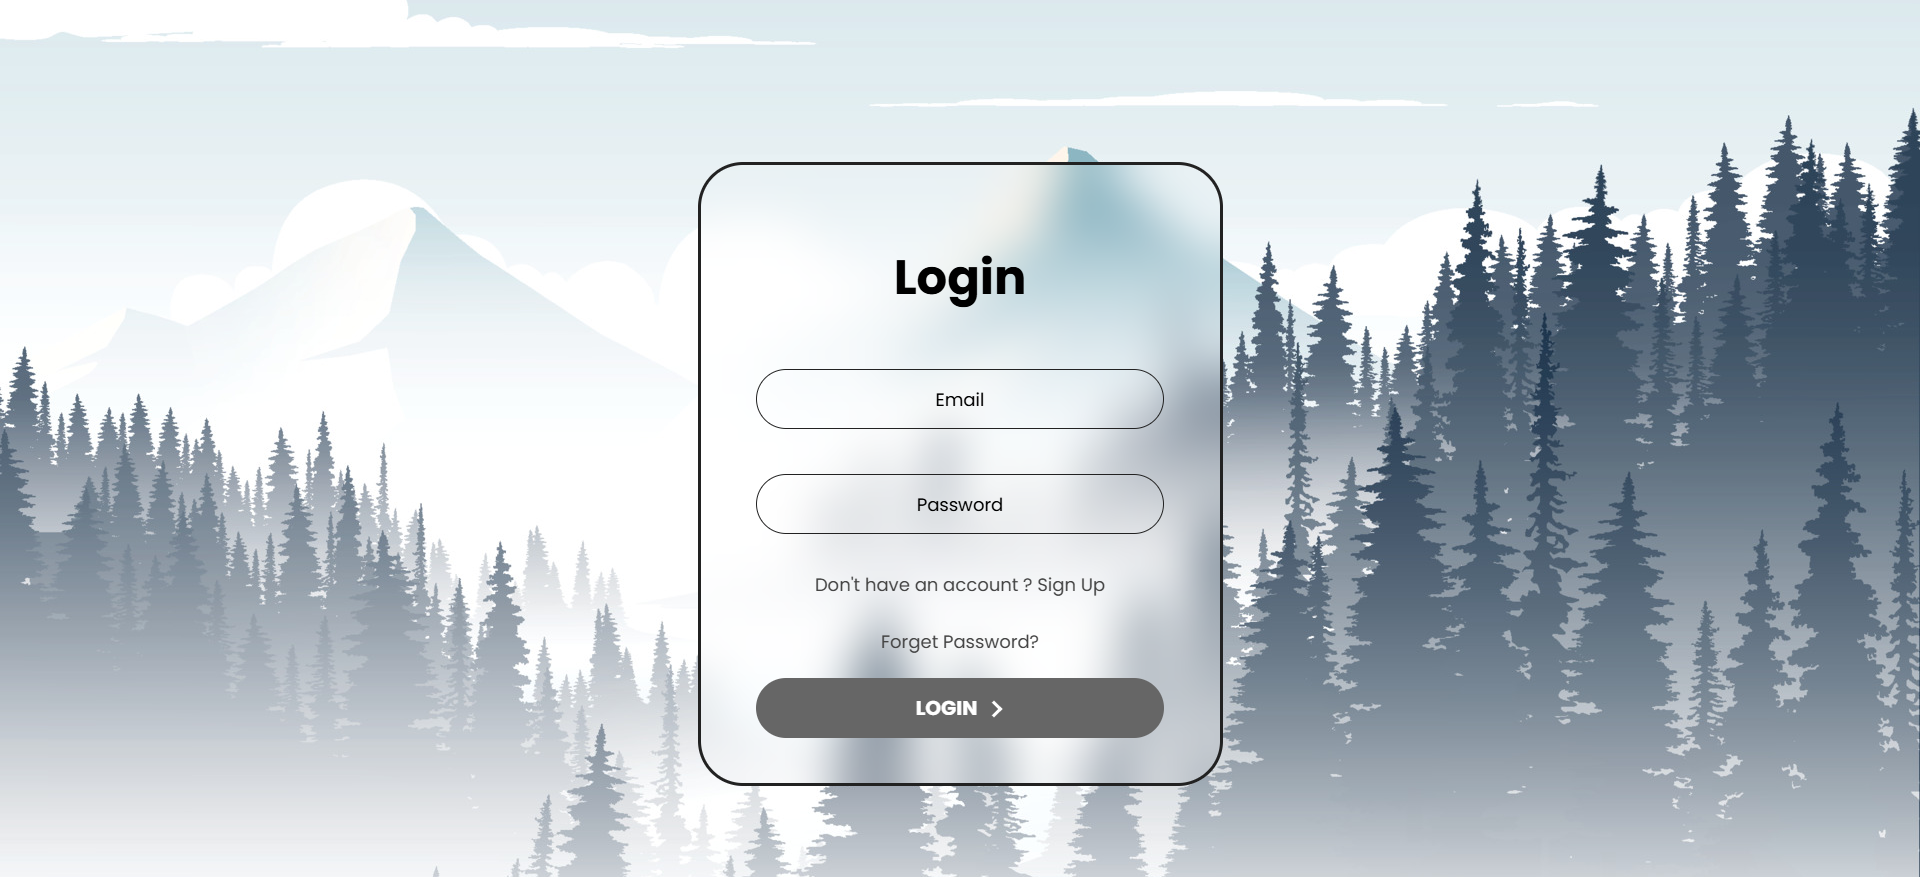
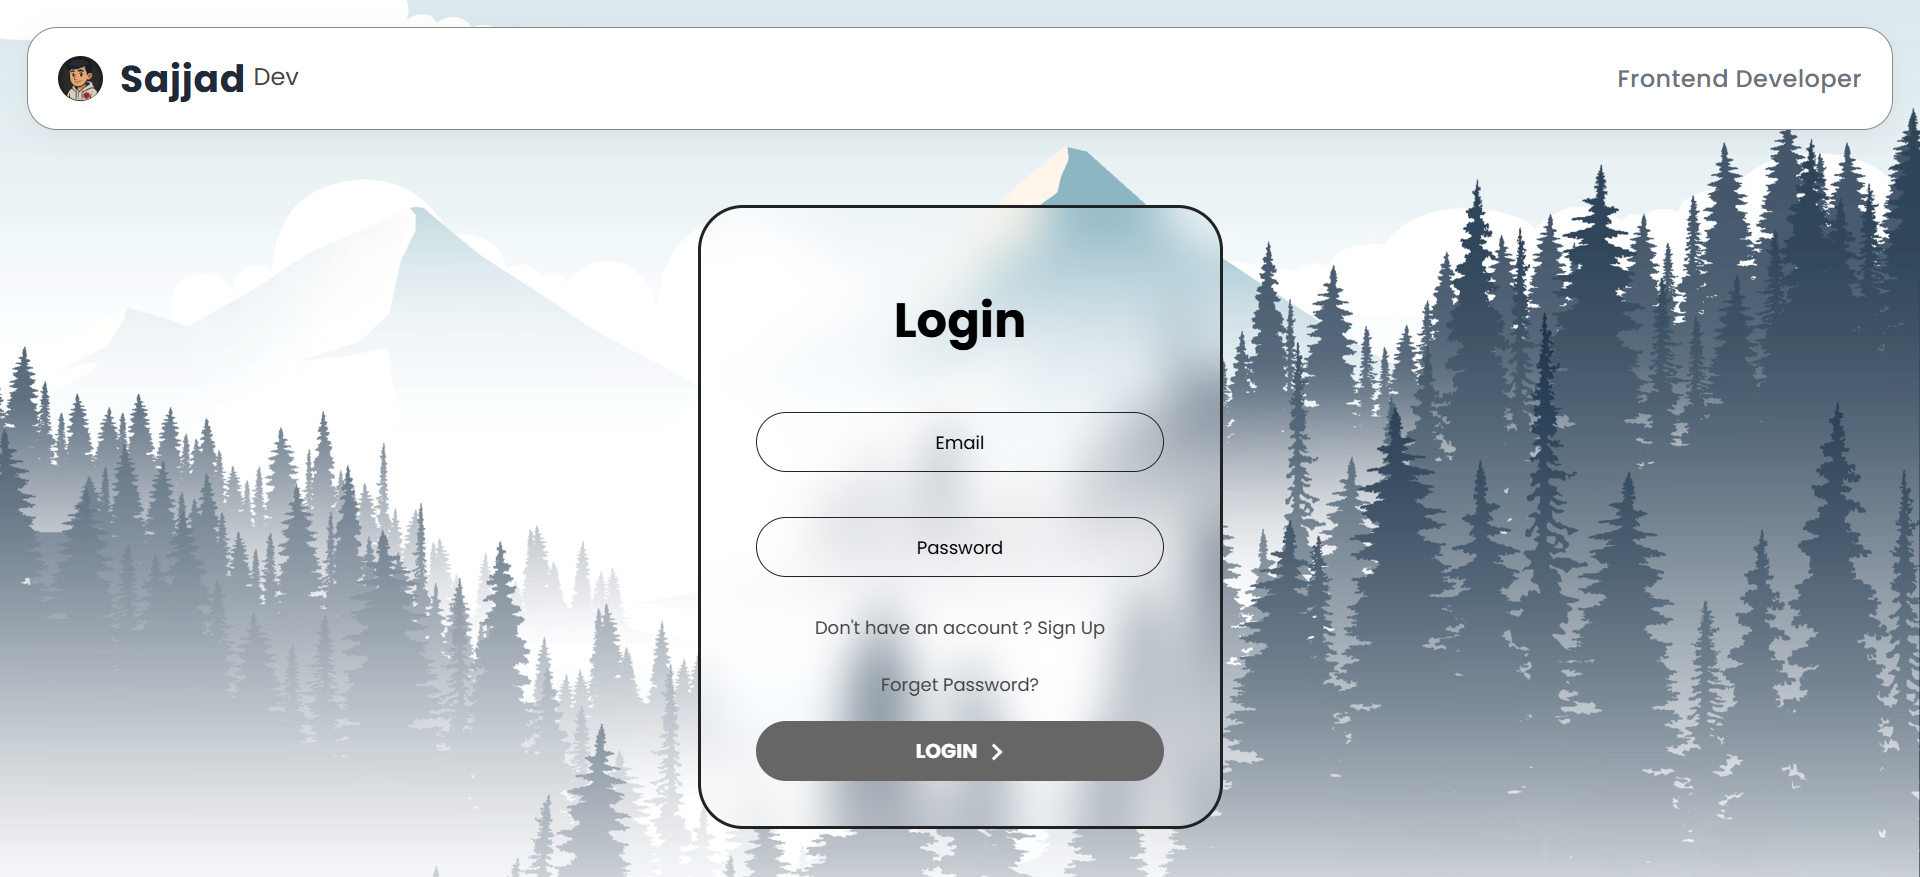
update

diff --git a/codes/login.css b/codes/login.css
@@ -110,6 +110,58 @@ a {
   font-style: italic;
 }
 
+/* nav */
+
+.sajjad-nav {
+  display: flex;
+  margin: 10px;
+  margin-bottom: 30px;
+  border-radius: 20px;
+  border: 1px solid #888;
+  justify-content: space-between;
+  align-items: center;
+  padding: 15px 20px;
+  background: #ffffff;
+  box-shadow: 0 4px 18px rgba(0, 0, 0, 0.06);
+}
+
+.brand img {
+  width: 30px;
+  height: 30px;
+  margin-right: 7px;
+  border-radius: 50%;
+  vertical-align: middle;
+}
+
+.logo {
+  font-size: 25px;
+  font-weight: 700;
+  color: #1f2937;
+  letter-spacing: 0.5px;
+  vertical-align: middle;
+}
+
+.accent {
+  color: #444;
+  margin-left: 5px;
+}
+
+.tagline {
+  font-weight: 500;
+  color: #6b7280;
+  letter-spacing: 0.3px;
+}
+
+@media (max-width: 768px) {
+  .sajjad-nav {
+    flex-direction: column;
+    gap: 0.5rem;
+  }
+  .tagline {
+    font-size: 0.9rem;
+  }
+}
+
 * {
   direction: ltr;
   box-sizing: border-box;
@@ -181,6 +233,7 @@ button .arrow::before {
 
 button:hover {
   background-color: var(--hover-color);
+  cursor: pointer;
 }
 
 button:hover .arrow {
@@ -195,7 +248,7 @@ body {
   background-size: cover;
   background-repeat: no-repeat;
   background-position: center;
-  background-image: url(../pictures/vecteezy_landscape-of-mountains-and-pine-forests-the-mist-is-above_8277966.jpg);
+  background-image: url(../assests/vecteezy_landscape-of-mountains-and-pine-forests-the-mist-is-above_8277966.jpg);
 }
 
 form {
@@ -211,7 +264,7 @@ form {
   width: 350px;
   margin: auto;
   padding: 30px;
-  margin-top: 100px;
+  margin-top: 50px;
 }
 
 h1 {

diff --git a/codes/sign up.css b/codes/sign up.css
@@ -110,6 +110,58 @@ a {
   font-style: italic;
 }
 
+/* nav */
+
+.sajjad-nav {
+  display: flex;
+  margin: 10px;
+  margin-bottom: 30px;
+  border-radius: 20px;
+  border: 1px solid #888;
+  justify-content: space-between;
+  align-items: center;
+  padding: 15px 20px;
+  background: #ffffff;
+  box-shadow: 0 4px 18px rgba(0, 0, 0, 0.06);
+}
+
+.brand img {
+  width: 30px;
+  height: 30px;
+  margin-right: 7px;
+  border-radius: 50%;
+  vertical-align: middle;
+}
+
+.logo {
+  font-size: 25px;
+  font-weight: 700;
+  color: #1f2937;
+  letter-spacing: 0.5px;
+  vertical-align: middle;
+}
+
+.accent {
+  color: #444;
+  margin-left: 5px;
+}
+
+.tagline {
+  font-weight: 500;
+  color: #6b7280;
+  letter-spacing: 0.3px;
+}
+
+@media (max-width: 768px) {
+  .sajjad-nav {
+    flex-direction: column;
+    gap: 0.5rem;
+  }
+  .tagline {
+    font-size: 0.9rem;
+  }
+}
+
 * {
   direction: ltr;
   box-sizing: border-box;
@@ -181,6 +233,7 @@ button .arrow::before {
 
 button:hover {
   background-color: var(--hover-color);
+  cursor: pointer;
 }
 
 button:hover .arrow {
@@ -195,7 +248,7 @@ body {
   background-position: center;
   background-repeat: no-repeat;
   background-size: cover;
-  background-image: url(../pictures/vecteezy_landscape-of-mountains-and-pine-forests-the-mist-is-above_8277966.jpg);
+  background-image: url(../assests/vecteezy_landscape-of-mountains-and-pine-forests-the-mist-is-above_8277966.jpg);
 }
 
 form {
@@ -211,7 +264,7 @@ form {
   width: 350px;
   margin: auto;
   padding: 20px;
-  margin-top: 100px;
+  margin-top: 50px;
 }
 
 h1 {

diff --git a/codes/SIGN UP.HTML b/codes/SIGN UP.HTML
@@ -18,6 +18,13 @@
   </head>
 
   <body>
+    <nav class="sajjad-nav">
+      <div class="brand">
+        <img src="../assests/favicon.png" alt="" />
+        <span class="logo">Sajjad</span><span class="accent">Dev</span>
+      </div>
+      <div class="tagline">Frontend Developer</div>
+    </nav>
     <form>
       <h1>Sign Up</h1>
       <input required type="email" class="email" placeholder="Email" />

diff --git a/INDEX.HTML b/INDEX.HTML
@@ -18,6 +18,13 @@
   </head>
 
   <body>
+    <nav class="sajjad-nav">
+      <div class="brand">
+        <img src="assests/favicon.png" alt="" />
+        <span class="logo">Sajjad</span><span class="accent">Dev</span>
+      </div>
+      <div class="tagline">Frontend Developer</div>
+    </nav>
     <form>
       <h1>Login</h1>
       <input required type="email" id="email" placeholder="Email" />
